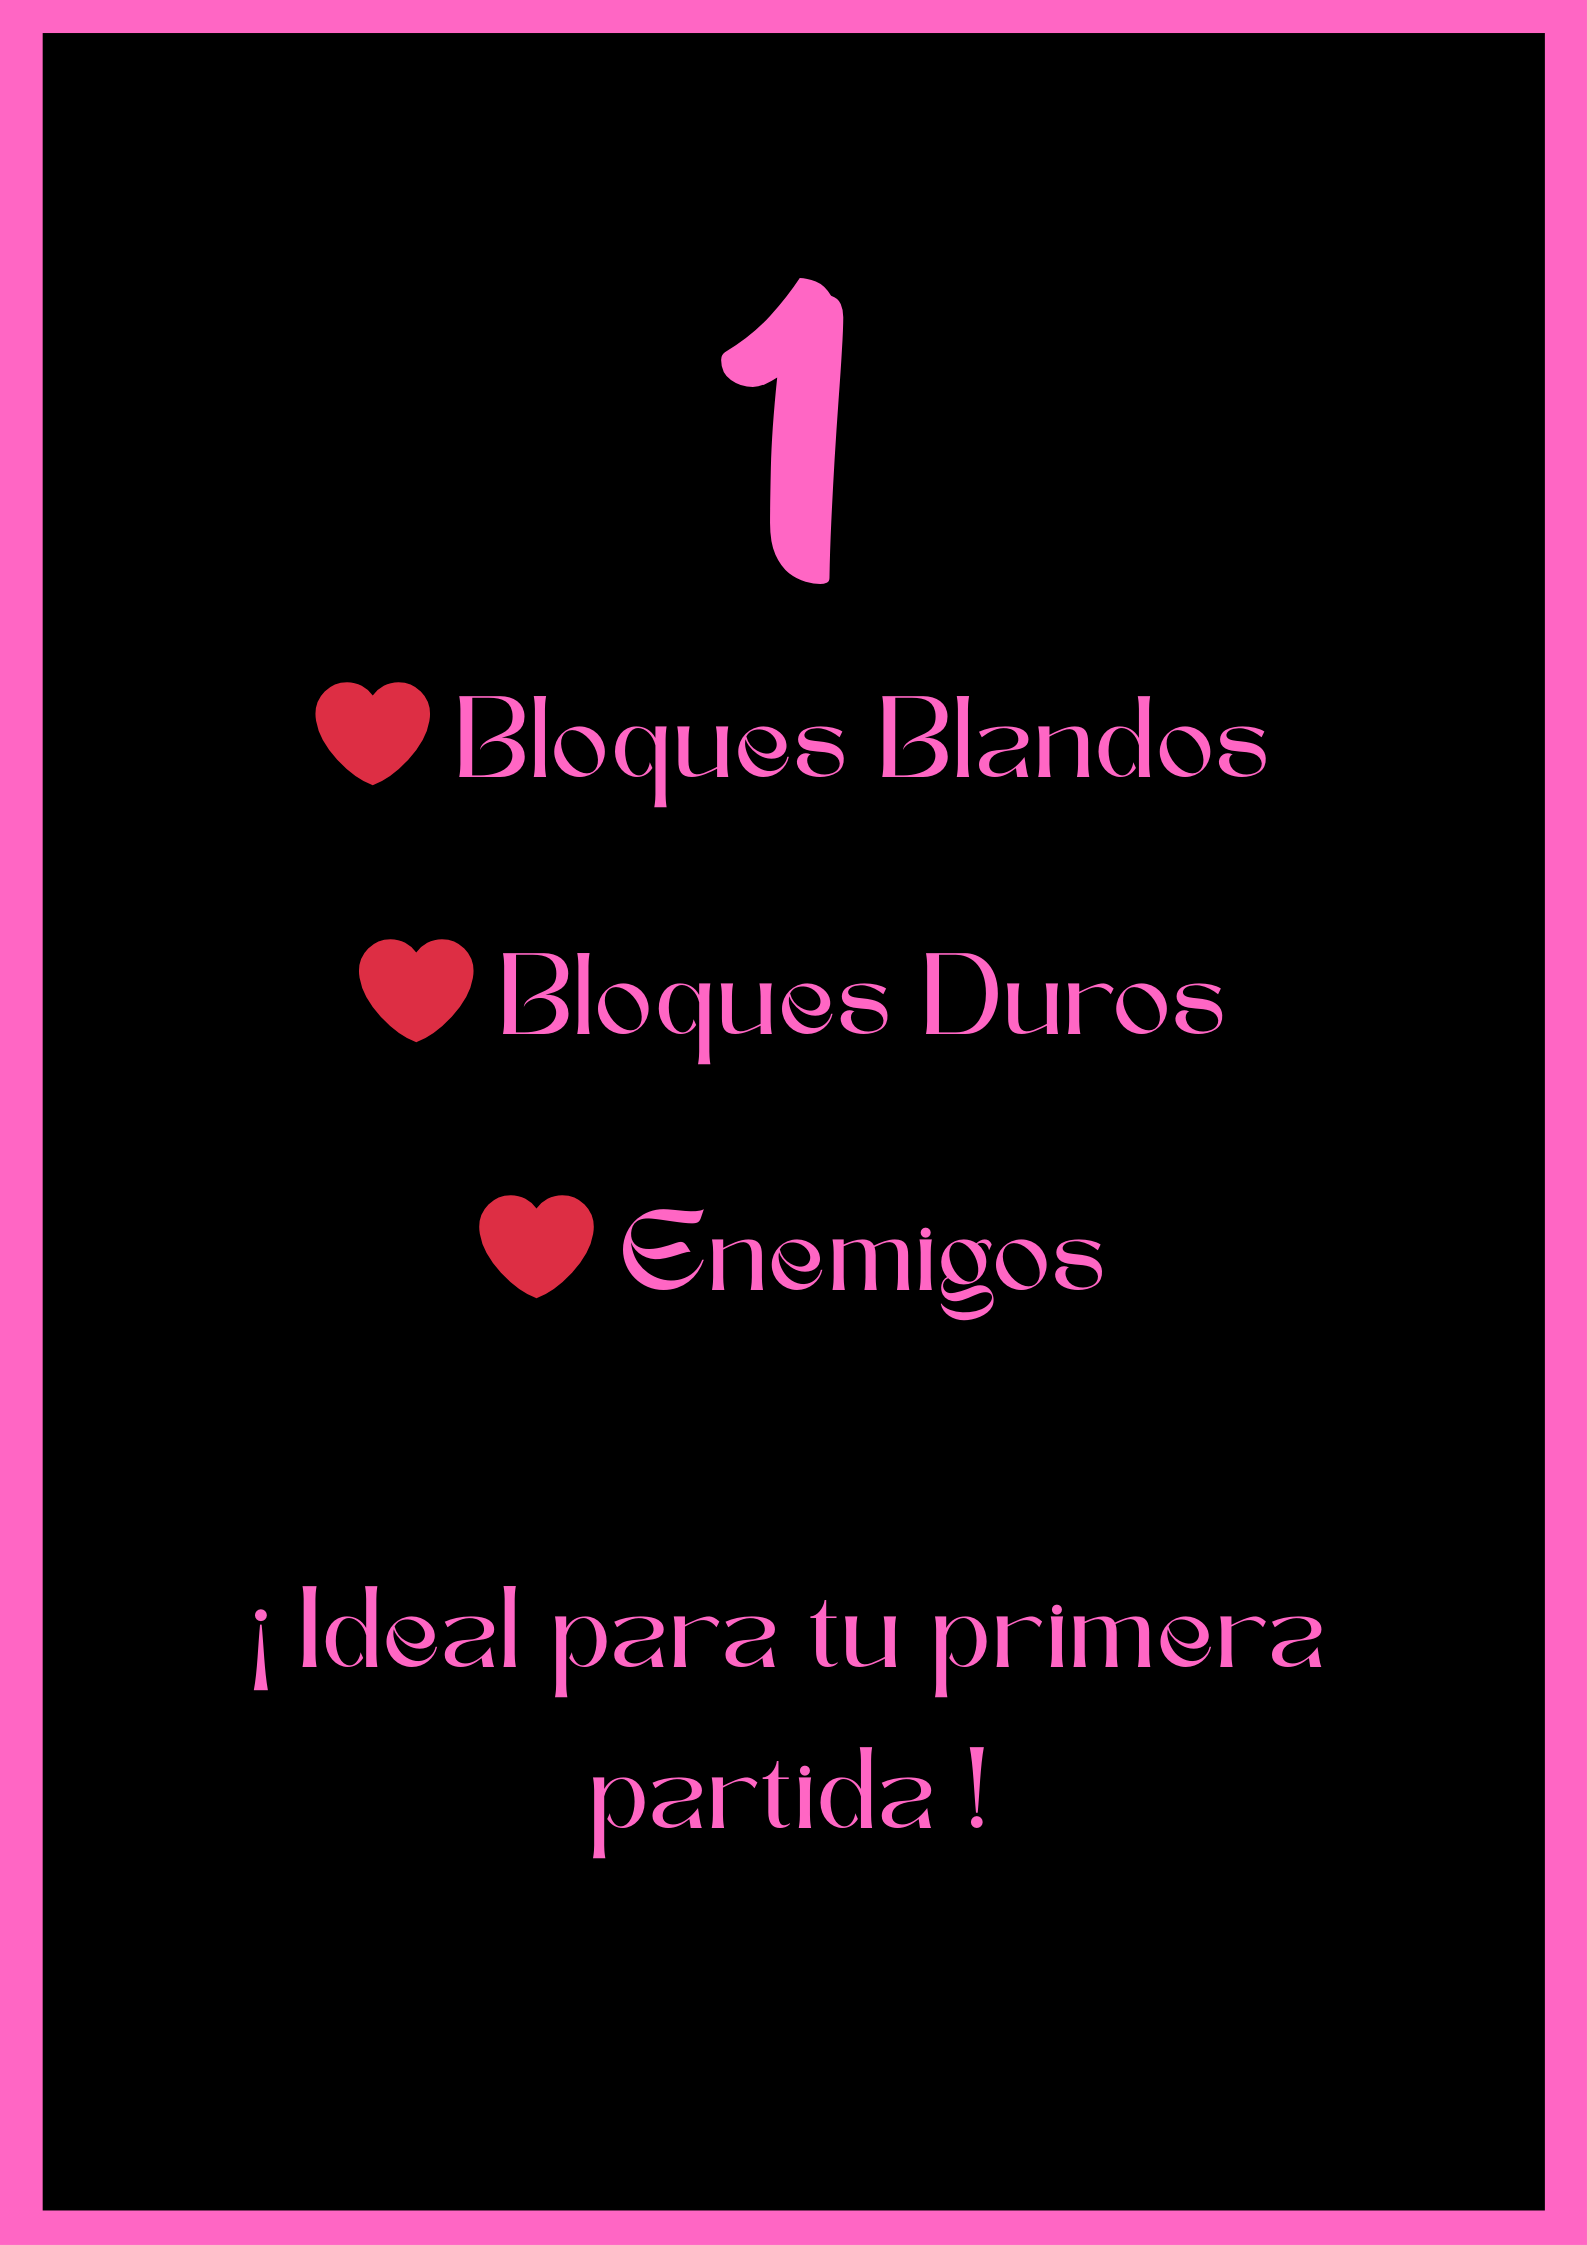
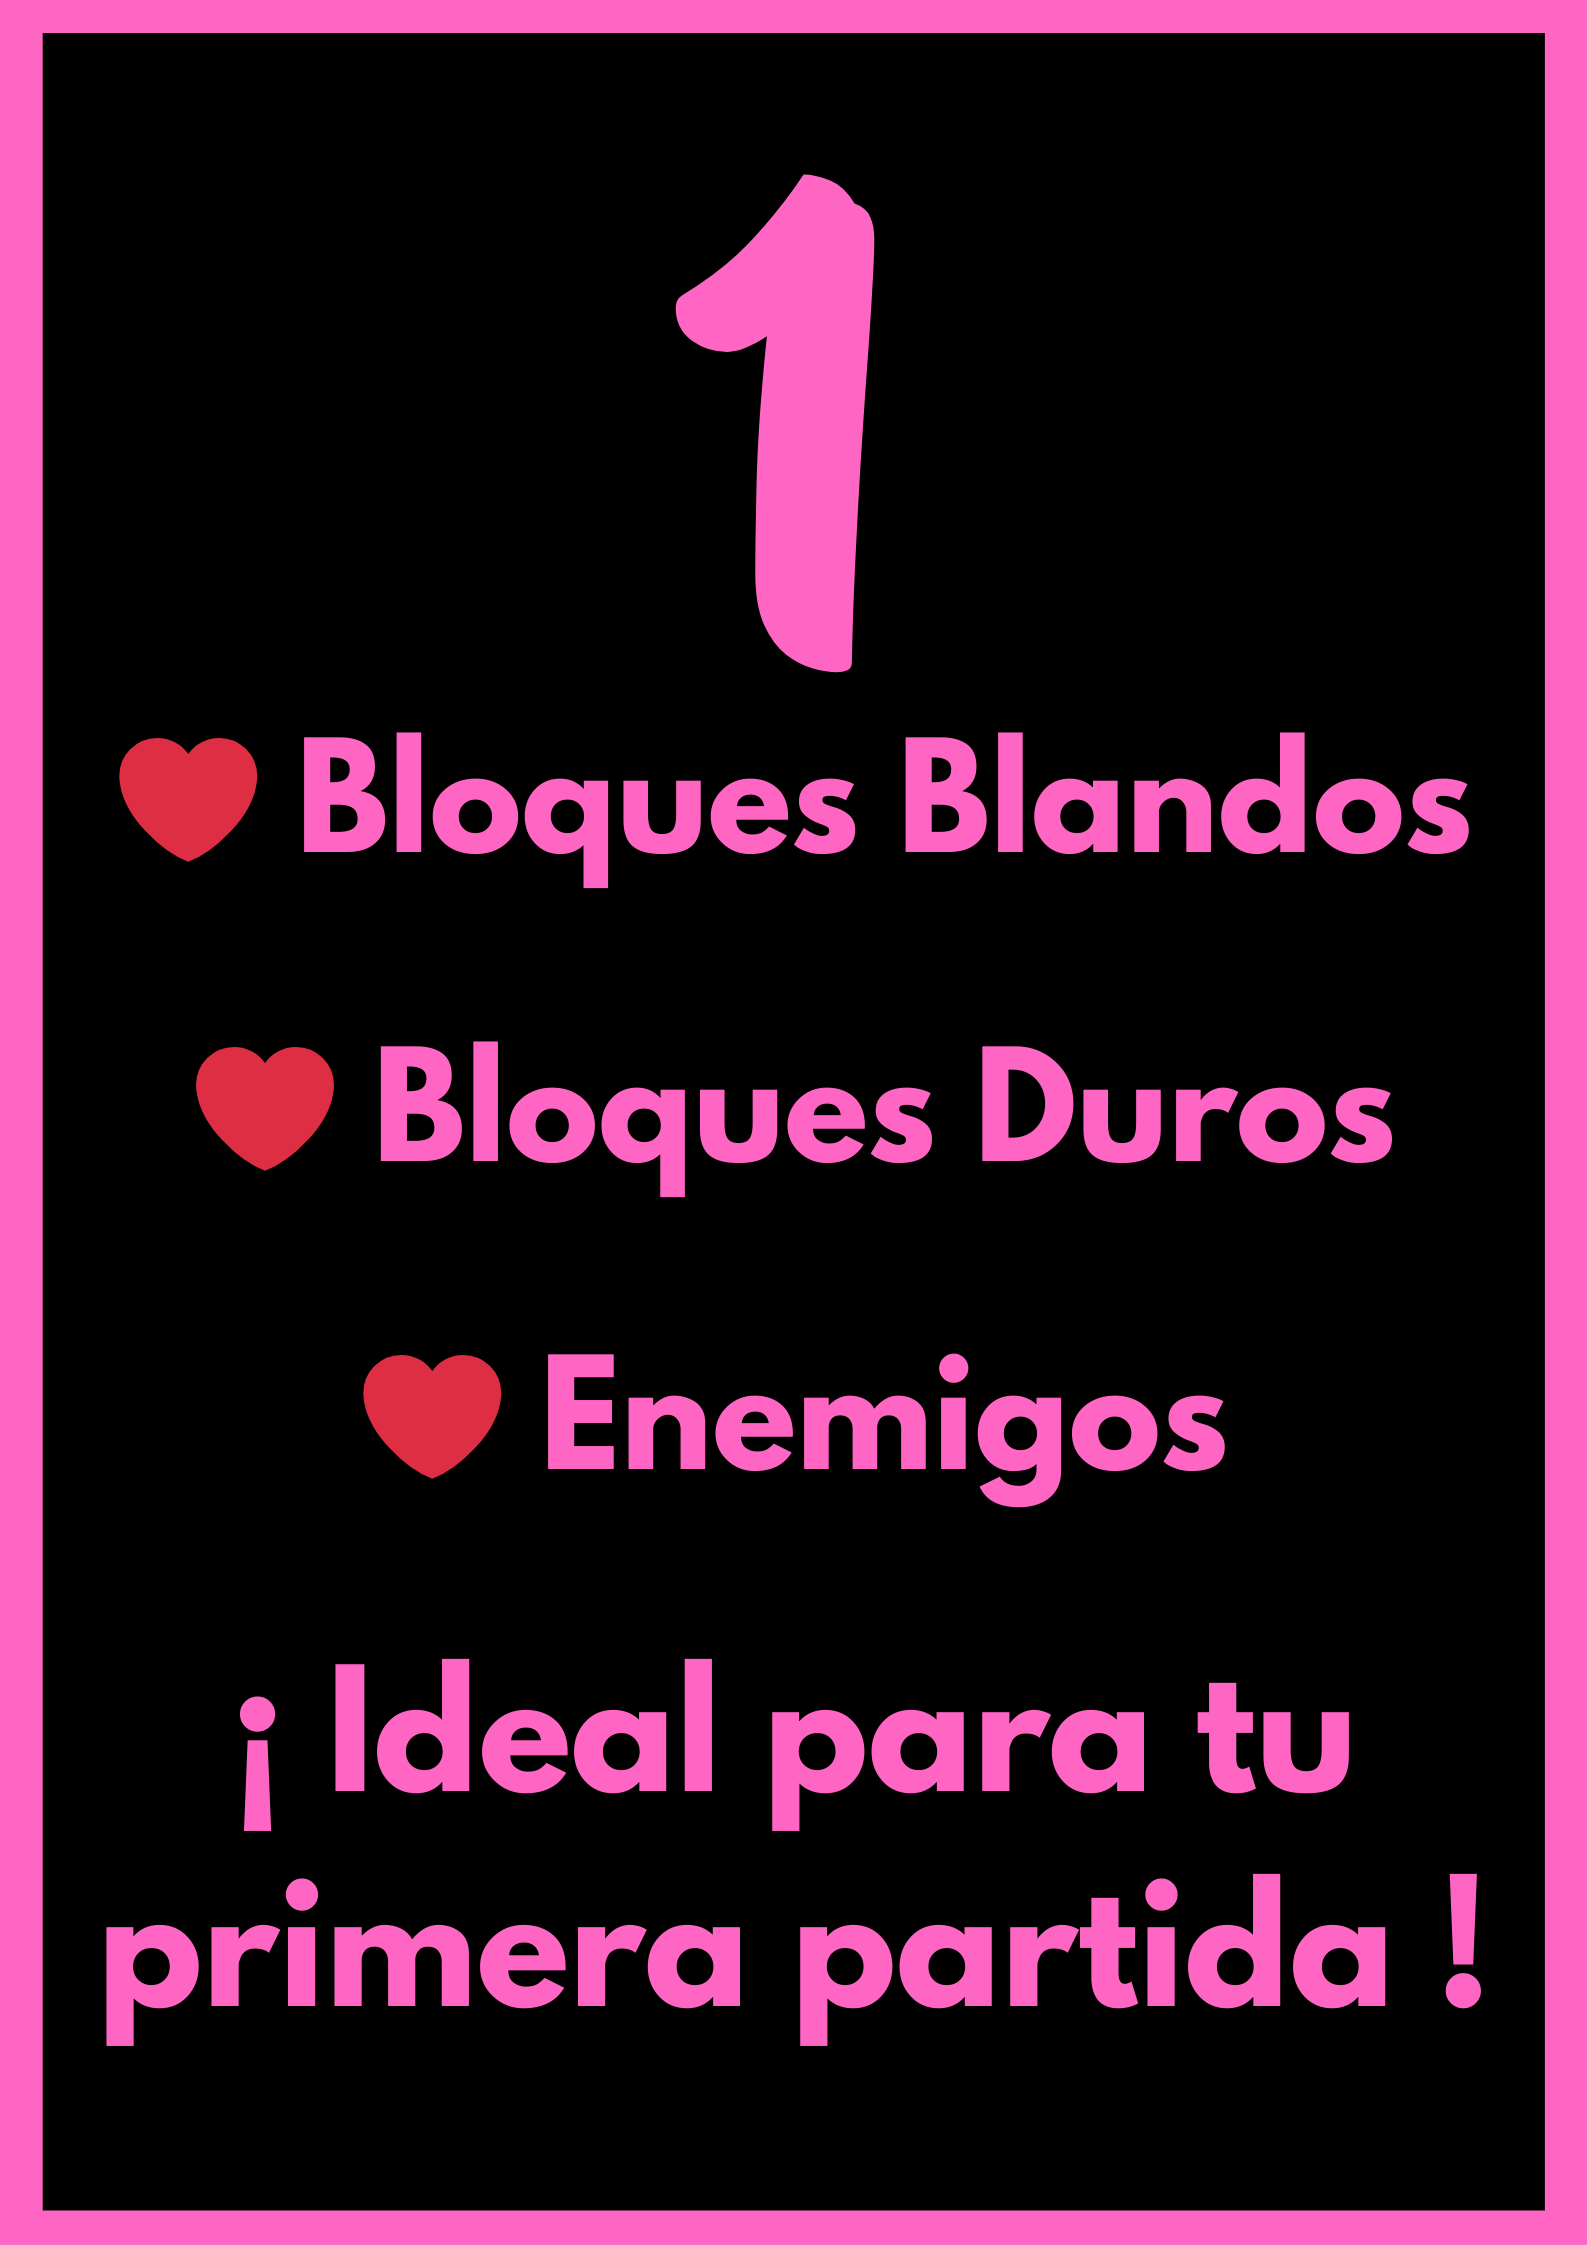
imagenes

Changed region(s): [[0.0618, 0.0624, 0.9263, 0.686], [0.0618, 0.7171, 0.9572, 0.9354], [0.2161, 0.5924, 0.3088, 0.6548]]

diff --git a/BombermanGE/src/viewController/PantallaSeleccionTipoTablero.java b/BombermanGE/src/viewController/PantallaSeleccionTipoTablero.java
@@ -37,7 +37,7 @@ public class PantallaSeleccionTipoTablero extends JFrame implements Observer{
 	}
 	private void initialize() {
 		// TODO Auto-generated method stub
-		setBounds(100, 100, 605, 374);
+		setBounds(100, 100, 707, 438);
         setResizable(false);
         setLocationRelativeTo(null);
         addKeyListener(getControlador());
@@ -76,10 +76,10 @@ public class PantallaSeleccionTipoTablero extends JFrame implements Observer{
 	
 	private JPanel getPanel(int pX, int pTablero) {
 	    JPanel panel = new JPanel(null);
-	    panel.setBounds(pX, 96, 116, 204);
+	    panel.setBounds(pX, 96, 179, 316);
 
-	    JLabel label = crearImagen(pTablero, 116, 204);
-	    label.setBounds(0, 0, 116, 204);
+	    JLabel label = crearImagen(pTablero, 179, 316);
+	    label.setBounds(0, 0, 179, 316);
 	    panel.add(label);
 	    panel.setOpaque(false);
 	    switch (pTablero) {
